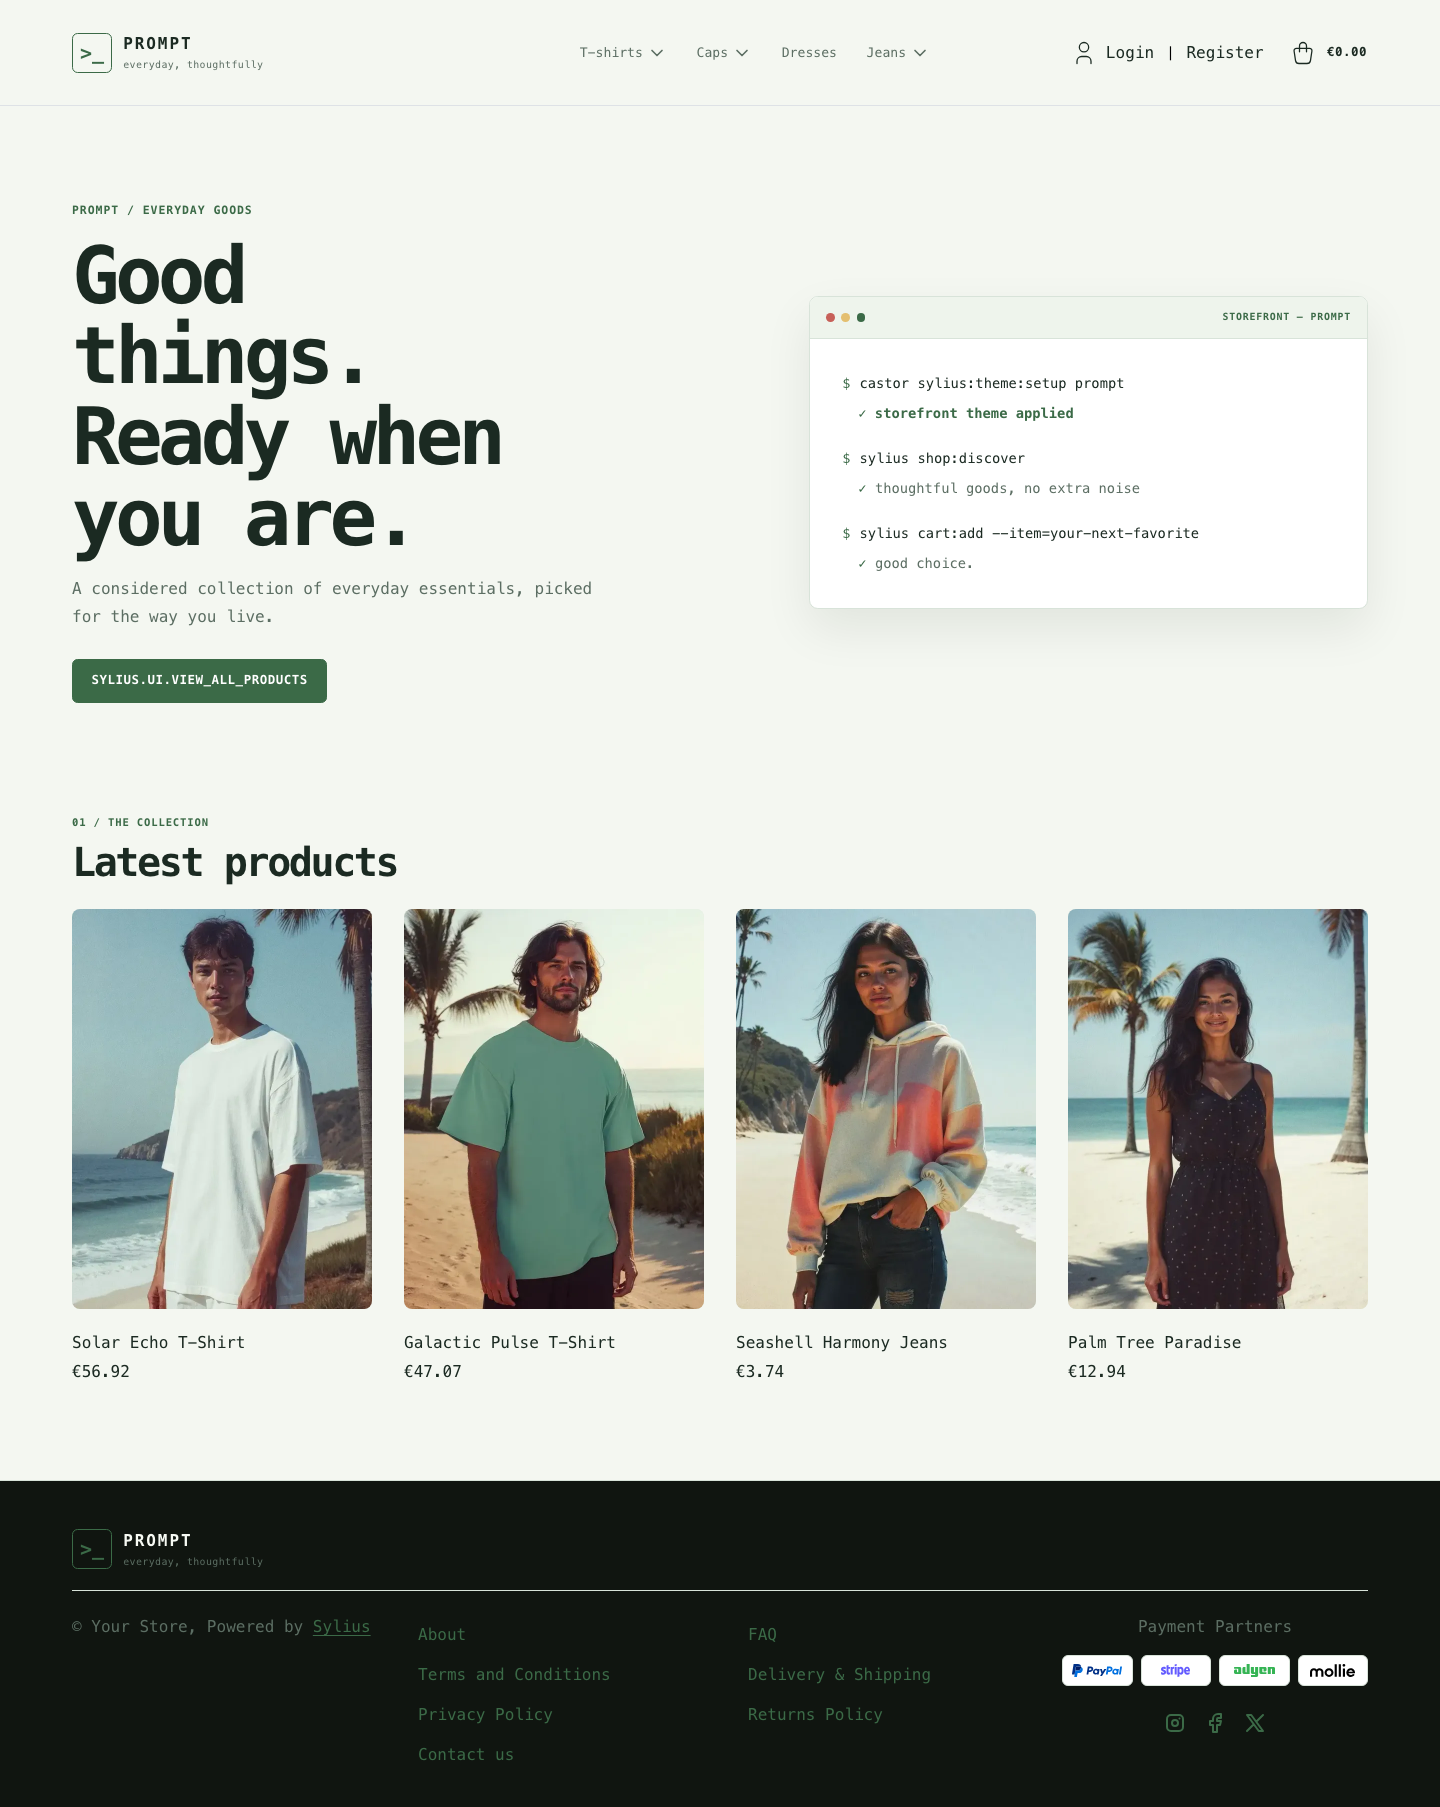
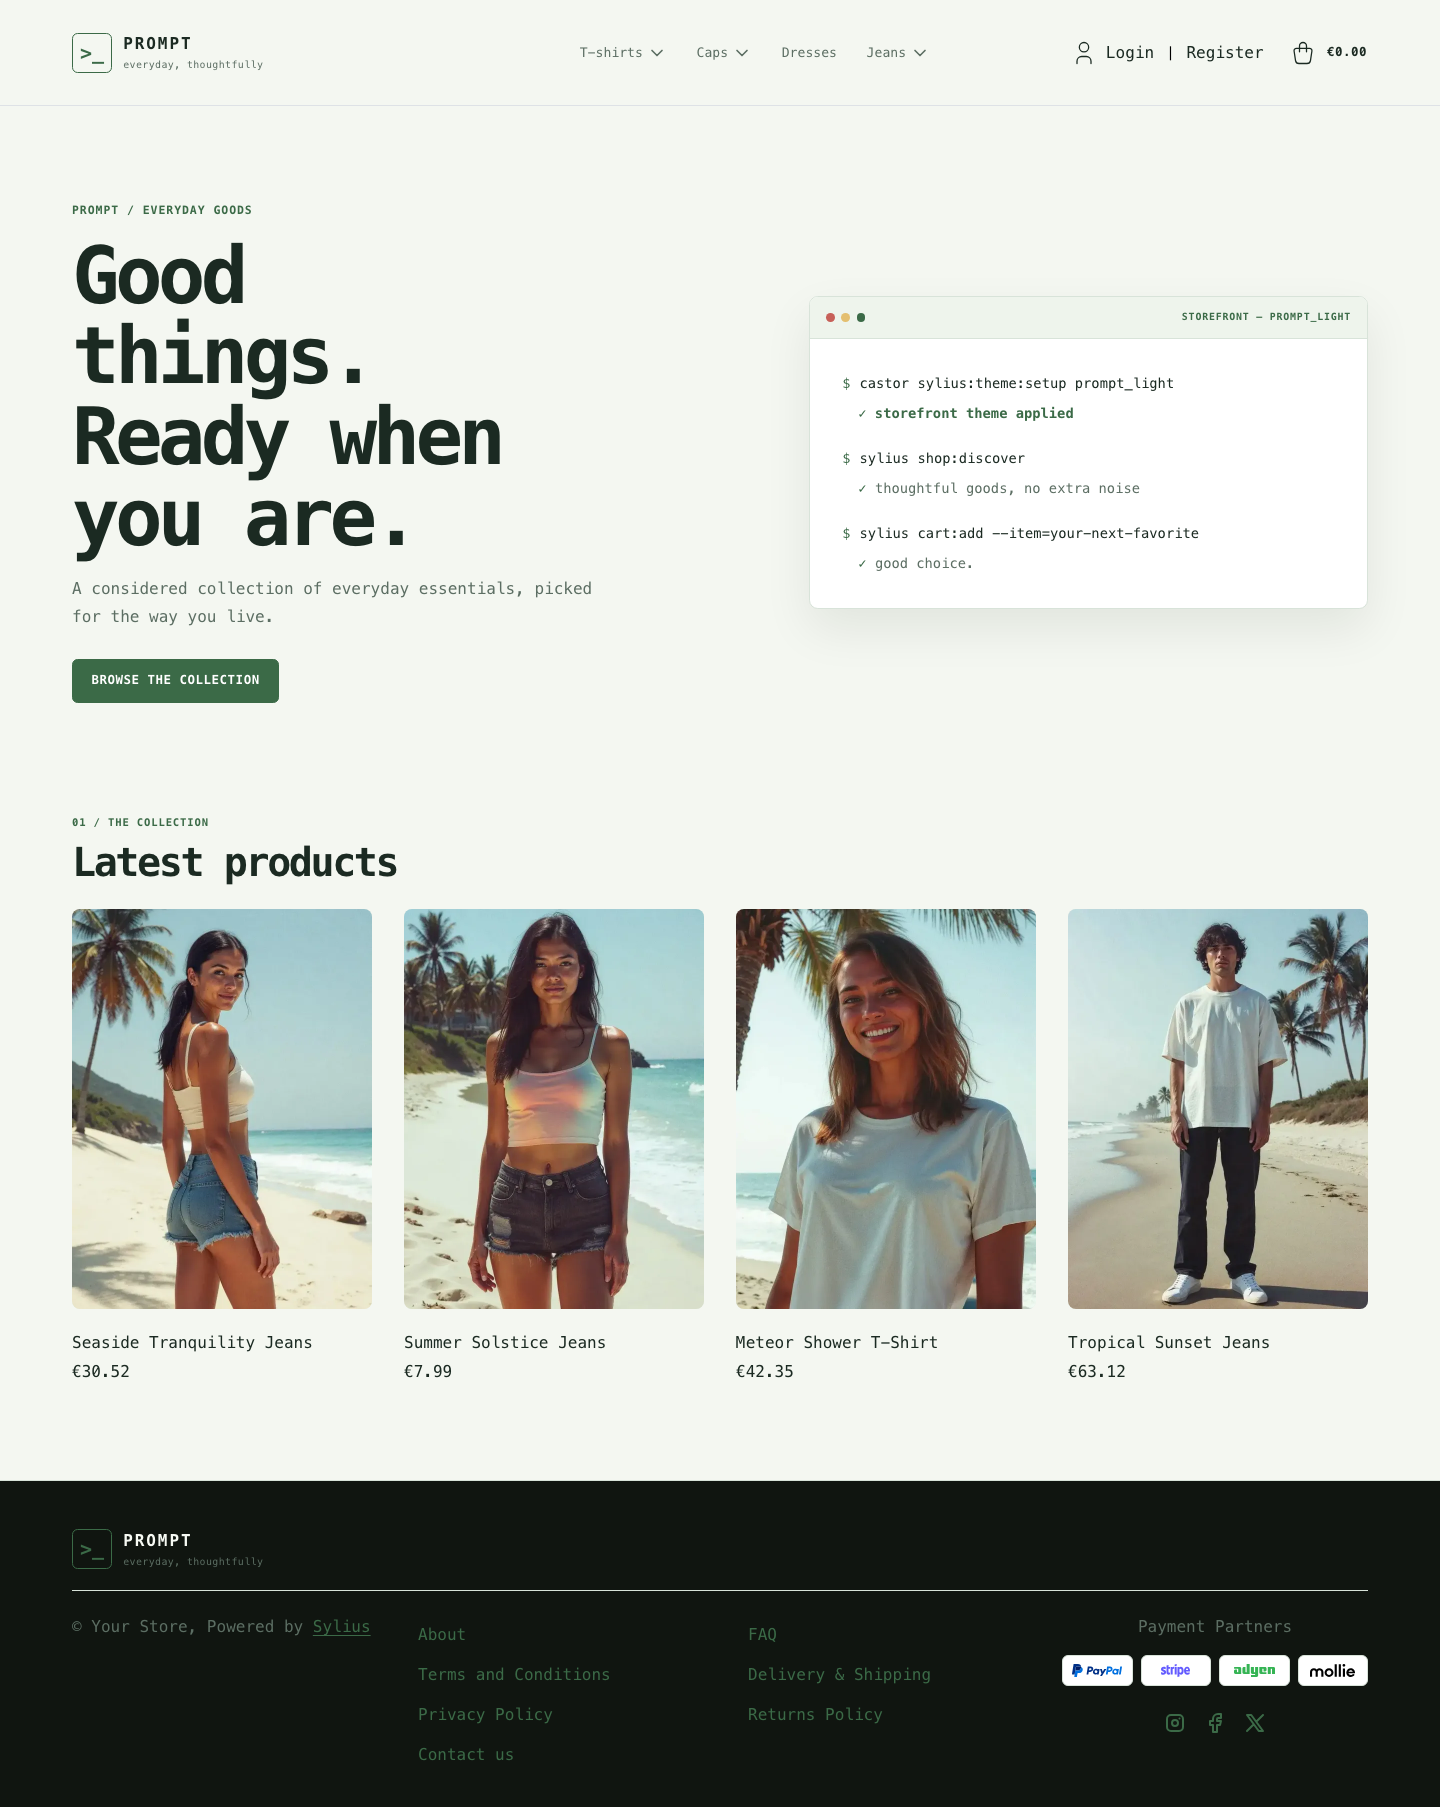
feat(themes): Improve a lot of themes

Changed region(s): [[0.0312, 0.4958, 0.9688, 0.7748], [0.1875, 0.3409, 0.25, 0.4029], [0.125, 0.3719, 0.1562, 0.4029]]

diff --git a/src/Themes/resources/volt/assets/shop/styles/_home.scss b/src/Themes/resources/volt/assets/shop/styles/_home.scss
@@ -13,8 +13,8 @@
   padding: clamp(2rem, 6vw, 5rem);
   border-radius: 2rem;
   background:
-    radial-gradient(circle at 78% 48%, rgba($electric, 0.95) 0 17%, transparent 17.2%),
-    radial-gradient(circle at 78% 48%, $lavender 0 27%, transparent 27.2%),
+    radial-gradient(circle at 75% 50%, rgba($electric, 0.95) 0 16%, transparent 16.2%),
+    radial-gradient(circle at 75% 50%, $lavender 0 25%, transparent 25.2%),
     $ink;
   color: $white;
   isolation: isolate;
@@ -127,7 +127,7 @@
 .volt-hero__orbit {
   position: absolute;
   top: 50%;
-  right: 9%;
+  right: calc(25% - clamp(5.5rem, 13vw, 11rem));
   display: grid;
   width: clamp(11rem, 26vw, 22rem);
   aspect-ratio: 1;
@@ -242,9 +242,9 @@
 
   h2 {
     margin: 0;
-    font-size: clamp(2.2rem, 4.5vw, 3.5rem);
-    font-weight: 800;
-    letter-spacing: -0.055em;
+    font-size: clamp(2rem, 4vw, 3.1rem);
+    font-weight: 700;
+    letter-spacing: -0.035em;
   }
 }
 

diff --git a/src/Themes/resources/blush/assets/shop/styles/app.scss b/src/Themes/resources/blush/assets/shop/styles/app.scss
@@ -11,13 +11,12 @@
 .blush-hero {
   position: relative;
   display: grid;
-  width: min(calc(100% - 2rem), 78rem);
   min-height: clamp(28rem, 52vw, 40rem);
   grid-template-columns: minmax(0, 1fr) minmax(18rem, 0.85fr);
   align-items: center;
   gap: clamp(2rem, 6vw, 5rem);
   overflow: hidden;
-  margin: clamp(1rem, 2.5vw, 2rem) auto clamp(3rem, 6vw, 5rem);
+  margin: clamp(1rem, 2.5vw, 2rem) 0 clamp(3rem, 6vw, 5rem);
   padding: clamp(2rem, 6vw, 5rem);
   border-radius: 1.25rem;
   background:
@@ -85,6 +84,7 @@
 
 .blush-hero__art-label {
   position: absolute;
+  z-index: 2;
   top: 15%;
   right: 2%;
   padding: 0.7rem 1rem;
@@ -122,7 +122,7 @@
 }
 
 .blush-products h2 {
-  margin-bottom: 1.5rem;
+  margin-bottom: 2rem;
 }
 
 @media (max-width: 767.98px) {

diff --git a/src/Themes/resources/canvas/assets/shop/styles/_fonts.scss b/src/Themes/resources/canvas/assets/shop/styles/_fonts.scss
@@ -1,7 +1,7 @@
 @font-face {
   font-family: "Cormorant Garamond";
   font-style: normal;
-  font-weight: 400 500;
+  font-weight: 300 700;
   font-display: swap;
   src: url("../fonts/cormorant.woff2") format("woff2");
 }
@@ -9,7 +9,7 @@
 @font-face {
   font-family: "Jost";
   font-style: normal;
-  font-weight: 400 500;
+  font-weight: 100 900;
   font-display: swap;
   src: url("../fonts/jost.woff2") format("woff2");
 }

diff --git a/src/Themes/resources/volt/assets/shop/styles/_header.scss b/src/Themes/resources/volt/assets/shop/styles/_header.scss
@@ -44,7 +44,7 @@ header .navbar-brand {
 }
 
 .volt-logo--header {
-  margin-inline-start: -0.75rem;
+  margin-inline-start: 0;
 }
 
 .volt-logo__mark {
@@ -266,8 +266,3 @@ header .dropdown-item {
   }
 }
 
-@media (max-width: 575.98px) {
-  .volt-logo--header {
-    margin-inline-start: -0.5rem;
-  }
-}

diff --git a/src/Themes/resources/canvas/assets/shop/styles/_footer.scss b/src/Themes/resources/canvas/assets/shop/styles/_footer.scss
@@ -75,3 +75,9 @@ footer .row.g-2.mb-4 > div > a {
   border-color: rgba($white, 0.35) !important;
   background-color: $white;
 }
+
+.canvas-footer__copy a {
+  color: $white !important;
+  text-decoration: underline !important;
+  text-underline-offset: 0.2em;
+}

diff --git a/src/Themes/resources/blush/assets/shop/styles/_footer.scss b/src/Themes/resources/blush/assets/shop/styles/_footer.scss
@@ -63,3 +63,9 @@ footer .row.g-2.mb-4 > div > a {
   border-color: rgba($white, 0.35) !important;
   background-color: $white;
 }
+
+.blush-footer__copy a {
+  color: $white !important;
+  text-decoration: underline !important;
+  text-underline-offset: 0.2em;
+}

diff --git a/src/Themes/resources/canvas/assets/shop/styles/_header.scss b/src/Themes/resources/canvas/assets/shop/styles/_header.scss
@@ -36,7 +36,7 @@ header .navbar-brand {
 }
 
 .canvas-logo--header {
-  margin-inline-start: -0.75rem;
+  margin-inline-start: 0;
 }
 
 .canvas-logo__mark {

diff --git a/src/Themes/resources/blush/assets/shop/styles/_header.scss b/src/Themes/resources/blush/assets/shop/styles/_header.scss
@@ -141,7 +141,7 @@ header .navbar-brand {
   }
 
   svg,
-  [data-test-cart-total] {
+  span:not(.badge) {
     color: inherit;
   }
 }

diff --git a/src/Themes/resources/prompt_dark/assets/shop/styles/_header.scss b/src/Themes/resources/prompt_dark/assets/shop/styles/_header.scss
@@ -158,7 +158,7 @@ header .navbar-brand {
   }
 
   svg,
-  [data-test-cart-total] {
+  span:not(.badge) {
     color: inherit;
   }
 }

diff --git a/src/Themes/resources/prompt_light/assets/shop/styles/_header.scss b/src/Themes/resources/prompt_light/assets/shop/styles/_header.scss
@@ -159,7 +159,7 @@ header .navbar-brand {
   }
 
   svg,
-  [data-test-cart-total] {
+  span:not(.badge) {
     color: inherit;
   }
 }

diff --git a/docs/themes/blush.md b/docs/themes/blush.md
@@ -18,5 +18,7 @@ soft rose panels and a deep plum footer.
   deals and new-collection blocks are hidden.
 - **Shopping flow** — matching buttons, forms and checkout branding, including
   the Blush wordmark and category navigation in the checkout header.
+- **Translations** — the hero texts live in a `blush` translation domain
+  (`translations/blush.en.yaml` and `blush.fr.yaml`).
 
 Install it with `castor sylius:theme:setup blush`.

diff --git a/docs/themes/prompt_light.md b/docs/themes/prompt_light.md
@@ -15,5 +15,7 @@ crisp dark typography and calmer contrast.
   latest products, without losing the terminal aesthetic.
 - **Shopping flow** — matching cart, checkout and product cards with calmer contrast
   for better readability.
+- **Translations** — the hero texts live in a `prompt` translation domain
+  (`translations/prompt.en.yaml` and `prompt.fr.yaml`).
 
 Install it with `castor sylius:theme:setup prompt_light`.
